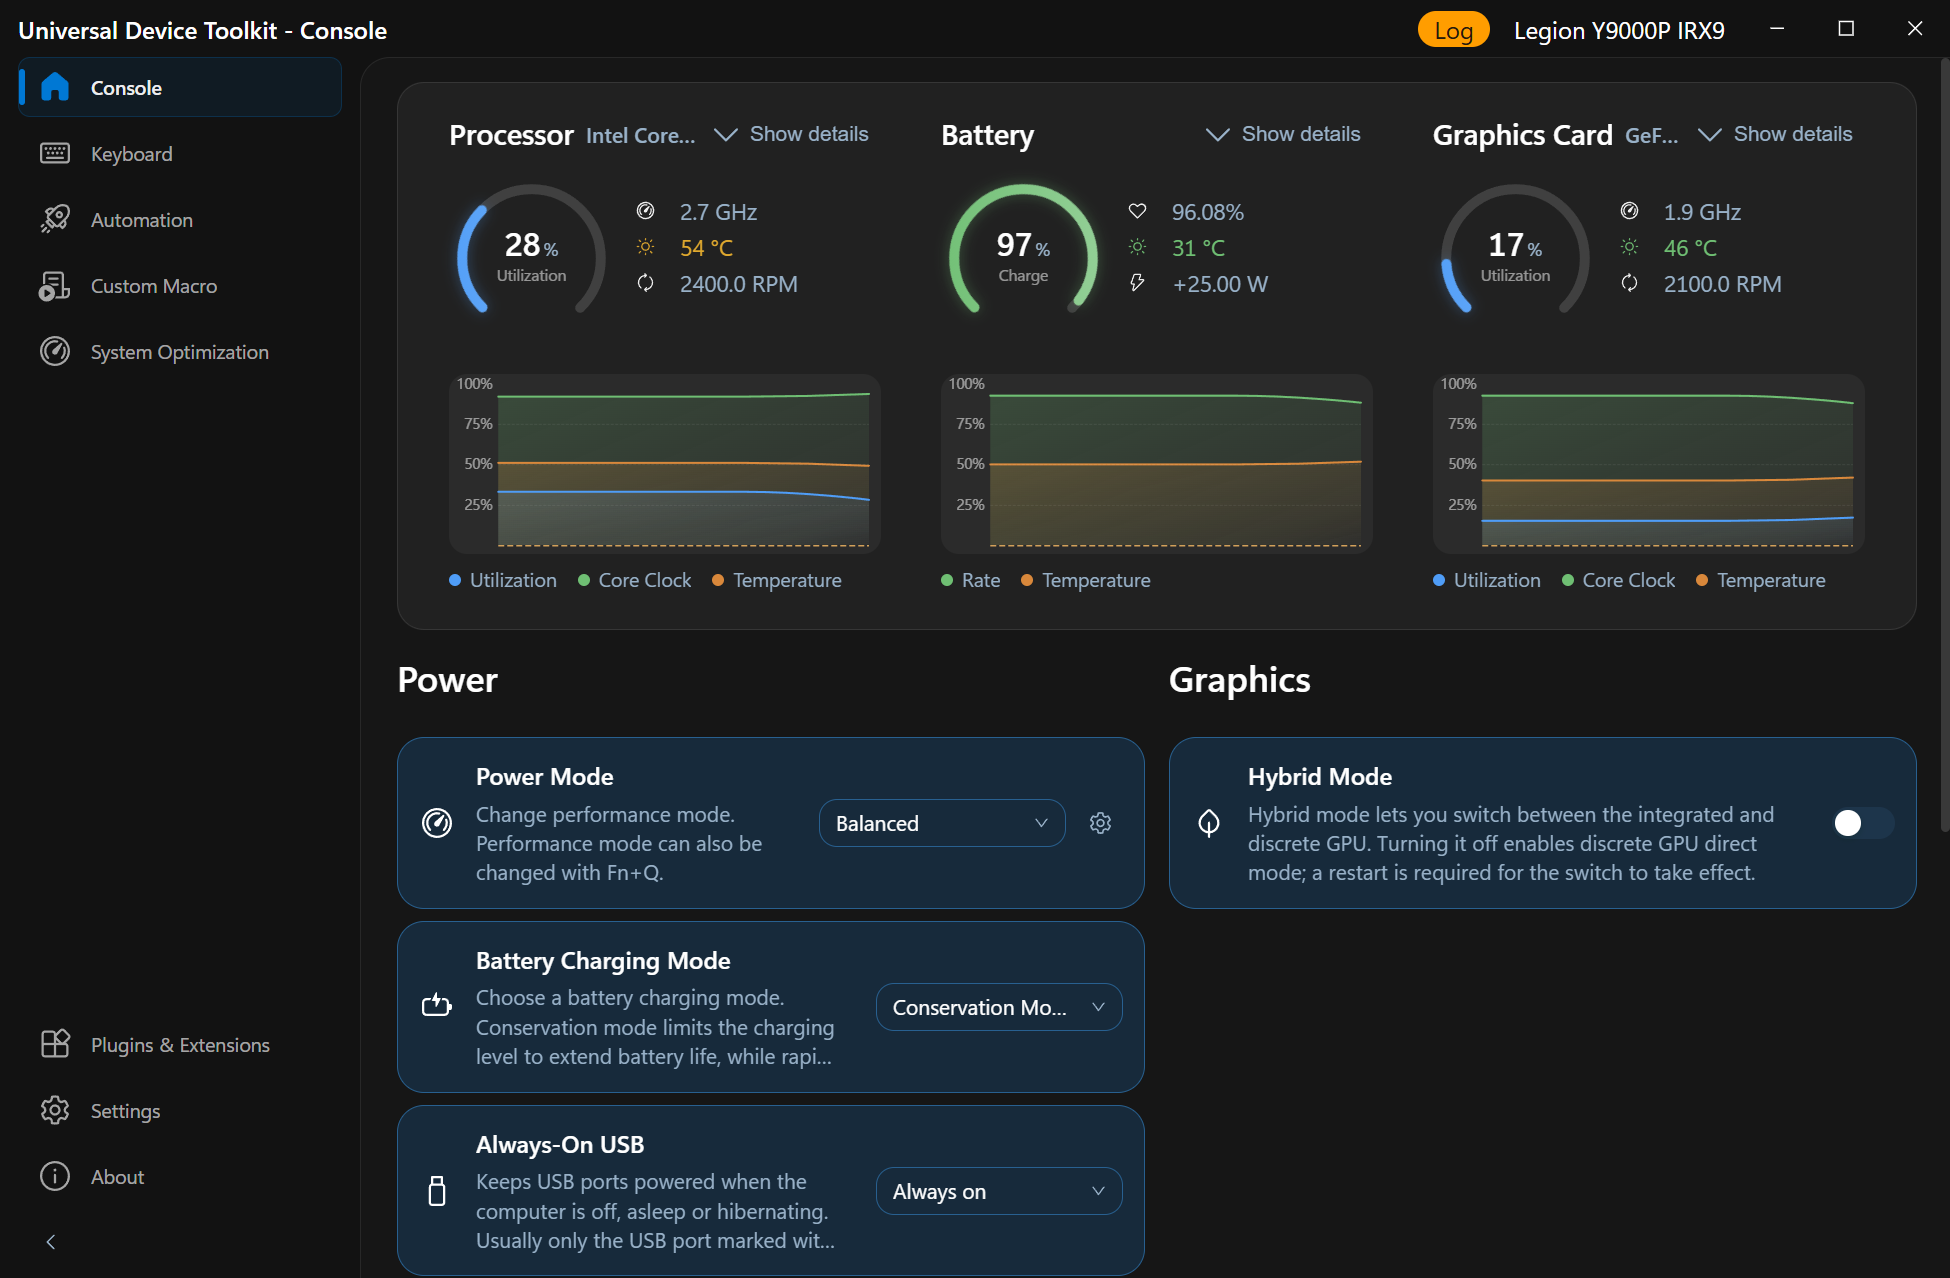
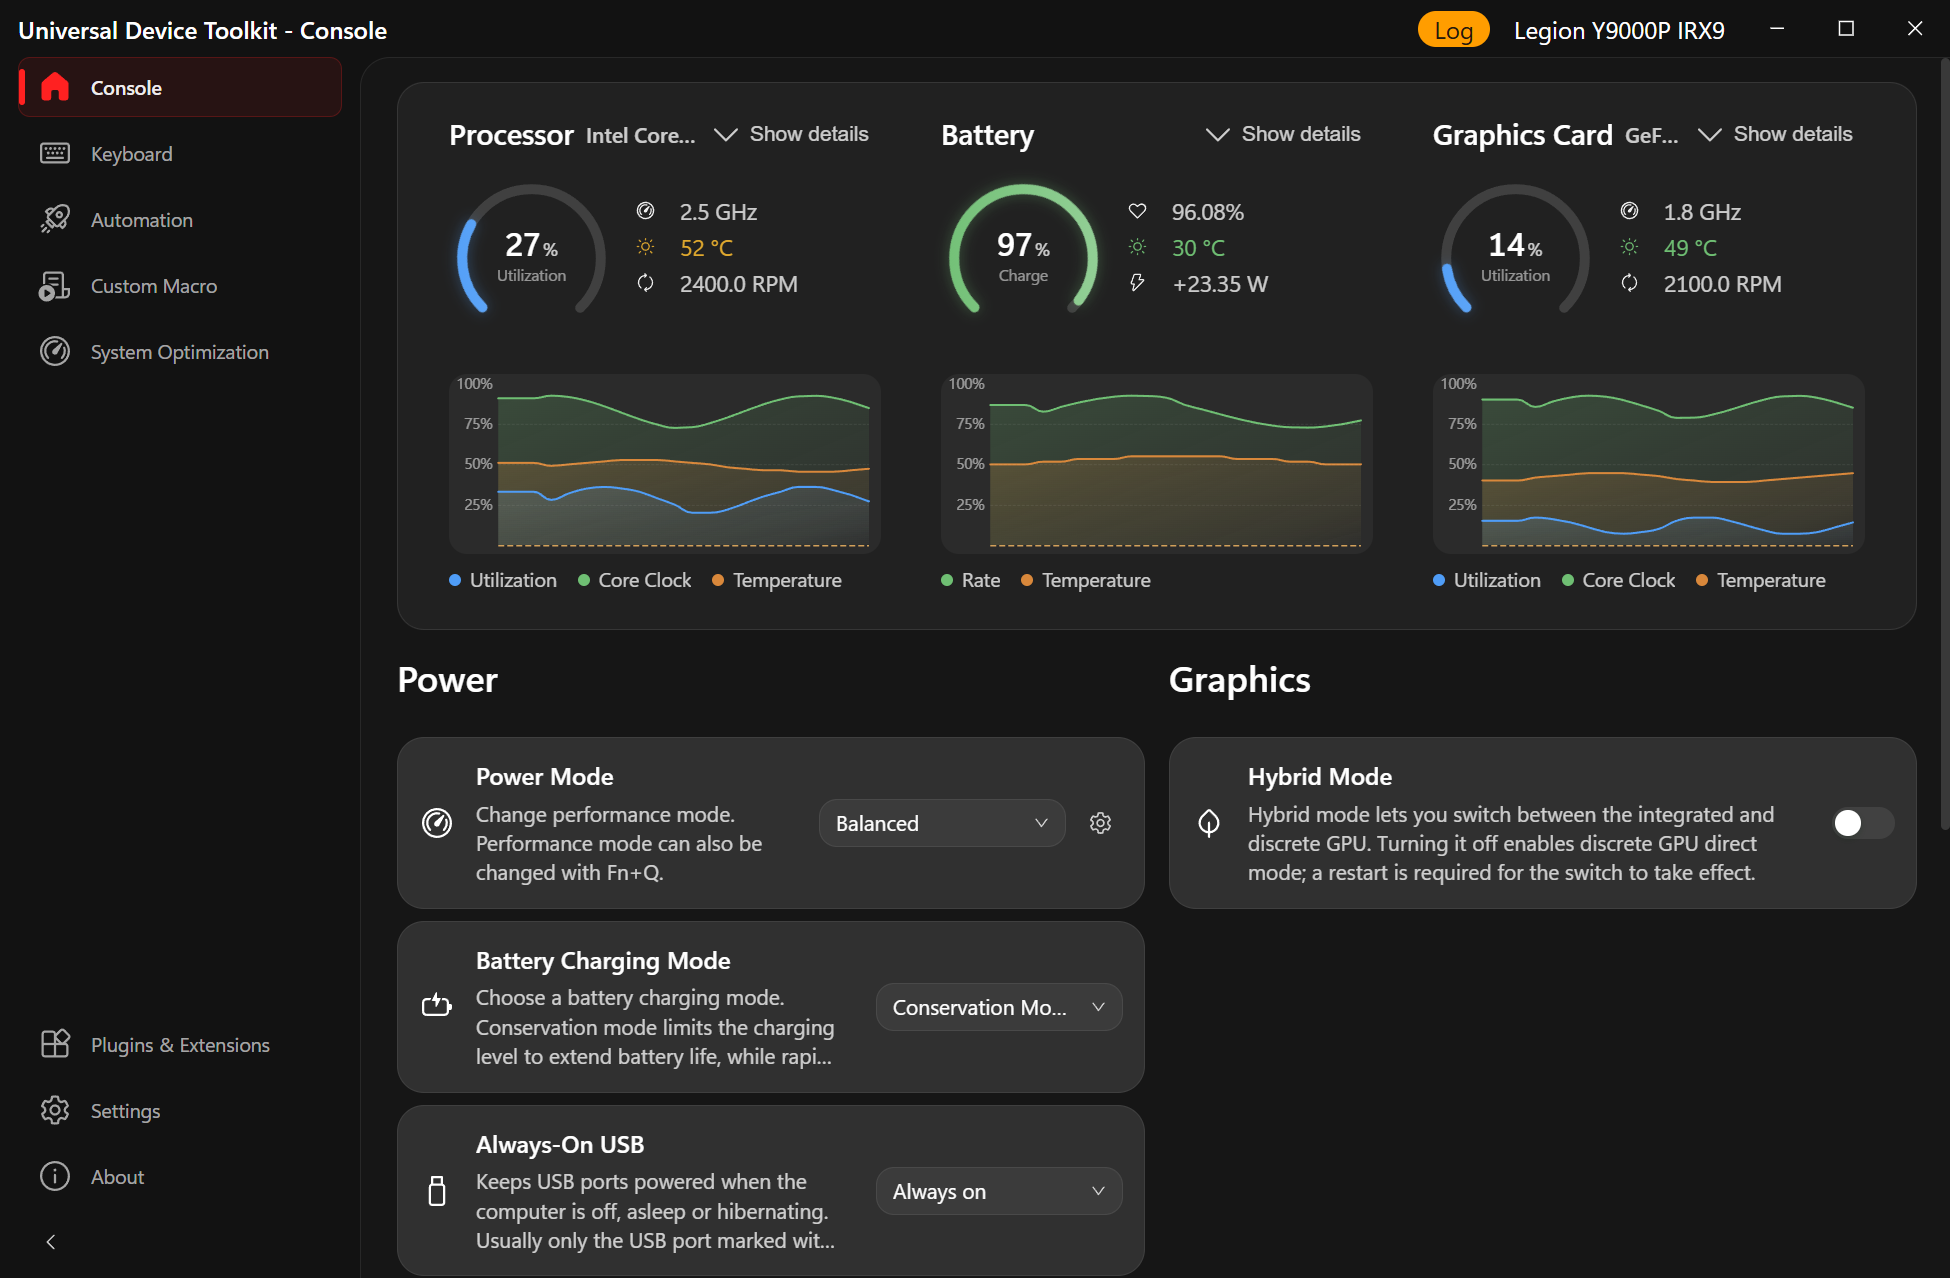
fix(theme): keep dark feature-card borders off the Windows accent
Stop blending accent into control strokes so Console cards stay neutral in dark mode. README screenshots now use UDT red instead of Windows blue chrome.

diff --git a/UniversalDeviceToolkit.Electron/src/renderer/src/theme/accentPalette.ts b/UniversalDeviceToolkit.Electron/src/renderer/src/theme/accentPalette.ts
@@ -97,15 +97,15 @@ export function createAccentPalette(accentHex: string, isDark: boolean): AccentP
 
 /** CSS custom properties the palette tints (removed to restore global.css defaults).
  *  The navigation surface stays neutral on purpose: the nav pane must remain
- *  visually distinct from the accent-tinted content area in both themes. */
+ *  visually distinct from the accent-tinted content area in both themes.
+ *  Strokes stay on the global.css tokens too: blending them toward the accent
+ *  turns feature cards into colored boxes, especially with Windows blue. */
 const SURFACE_VARIABLES: ReadonlyArray<{ slot: keyof AccentPalette; variable: string }> = [
   { slot: 'applicationBackground', variable: '--udt-surface-window' },
   { slot: 'controlFillDefault', variable: '--udt-surface-card' },
   { slot: 'controlFillDefault', variable: '--udt-control-fill-default' },
   { slot: 'controlFillSecondary', variable: '--udt-control-fill-secondary' },
   { slot: 'controlFillTertiary', variable: '--udt-control-fill-tertiary' },
-  { slot: 'controlStrokeDefault', variable: '--udt-control-stroke-default' },
-  { slot: 'controlStrokeSecondary', variable: '--udt-control-stroke-secondary' },
   { slot: 'textSecondary', variable: '--udt-text-secondary' }
 ]
 
